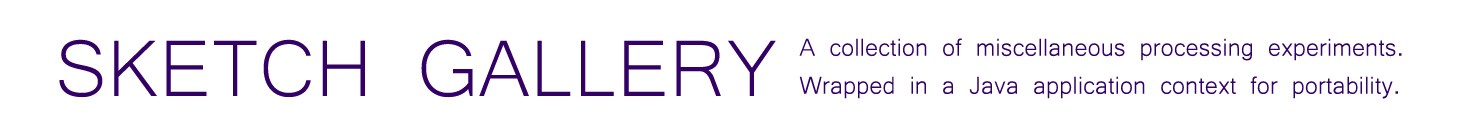
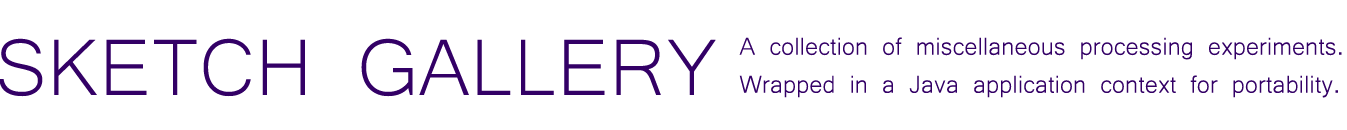
Cleanup Launcher

Changed region(s): [[0.0, 0.2769, 0.9978, 0.7385], [0.5301, 0.5846, 0.9978, 0.7385]]

diff --git a/src/Launcher.java b/src/Launcher.java
@@ -1,6 +1,6 @@
 import java.io.File;
-
 import javafx.application.Application;
+import javafx.application.Platform;
 import javafx.collections.FXCollections;
 import javafx.collections.ObservableList;
 import javafx.geometry.Insets;
@@ -8,13 +8,15 @@ import javafx.geometry.Pos;
 import javafx.scene.Scene;
 import javafx.scene.control.Button;
 import javafx.scene.control.ListView;
+import javafx.scene.control.ToolBar;
 import javafx.scene.image.Image;
 import javafx.scene.image.ImageView;
+import javafx.scene.layout.BorderPane;
 import javafx.scene.layout.GridPane;
-import javafx.scene.text.Font;
-import javafx.scene.text.FontWeight;
-import javafx.scene.text.Text;
+import javafx.scene.layout.HBox;
 import javafx.stage.Stage;
+import javafx.stage.StageStyle;
+import javax.swing.GroupLayout.Alignment;
 import processing.core.PApplet;
 
 /**
@@ -22,11 +24,13 @@ import processing.core.PApplet;
  */
 public class Launcher extends Application {
 
-    private final int WIDTH = 1280;
+    private final int WIDTH = 1020;
     private final int HEIGHT = 720;
-    private final boolean RESIZABLE = false;
+    private final boolean RESIZABLE = true;
     private final String TITLE = "Processing Sketches";
     private final String SKETCHES_SRC = "sketches.";
+    private double xOffset;
+    private double yOffset;
 
     /**
      * Constructor.
@@ -36,15 +40,47 @@ public class Launcher extends Application {
 
     @Override
     public void start(Stage primaryStage) throws Exception {
-        GridPane grid = new GridPane();
-        grid.setAlignment(Pos.CENTER);
-        grid.setHgap(10);
-        grid.setVgap(10);
-        grid.setPadding(new Insets(25, 25, 25, 25));
+        primaryStage.initStyle(StageStyle.UNDECORATED);
+        BorderPane borderPane = new BorderPane();
 
-        Text scenetitle = new Text("Welcome");
-        scenetitle.setFont(Font.font("Tahoma", FontWeight.NORMAL, 20));
-        grid.add(scenetitle, 0, 0, 2, 1);
+        ToolBar toolBar = new ToolBar();
+        toolBar.setOnMousePressed(event -> {
+            xOffset = primaryStage.getX() - event.getScreenX();
+            yOffset = primaryStage.getY() - event.getScreenY();
+        });
+
+        toolBar.setOnMouseDragged(event -> {
+            primaryStage.setX(event.getScreenX() + xOffset);
+            primaryStage.setY(event.getScreenY() + yOffset);
+        });
+
+        int height = 32;
+        toolBar.setPrefHeight(height);
+        toolBar.setMinHeight(height);
+        toolBar.setMaxHeight(height);
+        borderPane.setStyle("-fx-background: #FFFFFF;");
+        toolBar.setStyle("-fx-background: #FFFFFF;");
+        toolBar.getItems().add(new WindowButtons());
+        borderPane.setTop(toolBar);
+        GridPane grid = new GridPane();
+        borderPane.setBottom(grid);
+        borderPane.setAlignment(grid, Pos.CENTER);
+        grid.setAlignment(Pos.CENTER);
+        grid.setPadding(new Insets(25, 25, 25, 25));
+        grid.setStyle("-fx-background: #FFFFFF;");
+        Scene scene = new Scene(borderPane, WIDTH, HEIGHT);
+        primaryStage.setTitle(TITLE);
+        primaryStage.setScene(scene);
+        primaryStage.setResizable(RESIZABLE);
+        primaryStage.getIcons().add(new Image("file:icon.png"));
+
+        ImageView header = new ImageView();
+        header.setImage(new Image("file:header.png"));
+        header.setFitWidth(900);
+        header.setPreserveRatio(true);
+        header.setSmooth(true);
+        header.setCache(true);
+        grid.add(header, 0, 0, 4, 1);
 
         // Options List
         ListView<String> list = new ListView<String>();
@@ -52,7 +88,6 @@ public class Launcher extends Application {
         File folder = new File("src/sketches/");
         File[] listOfFiles = folder.listFiles();
         ObservableList<String> items = FXCollections.observableArrayList();
-
         String tmp;
         if (listOfFiles != null) {
             for (File file : listOfFiles) {
@@ -67,25 +102,41 @@ public class Launcher extends Application {
         grid.add(list, 0, 1, 2, 1);
 
         Button btn = new Button();
+        btn.setStyle(
+            "-fx-background-color:#330066;"
+            + "-fx-text-fill: white;"
+            + "-fx-border-style: none;"
+            + "-fx-font-size: 14px;"
+            + "-fx-: 14px;");
         btn.setText("Launch Sketch");
-        btn.setOnAction(event -> {
-            PApplet.main(SKETCHES_SRC + list.getSelectionModel().getSelectedItem(), new String[]{});
-        }
+        btn.setOnAction((javafx.event.ActionEvent event) ->
+            PApplet.main(SKETCHES_SRC + list.getSelectionModel().getSelectedItem(), new String[]{})
         );
         grid.add(btn, 0, 2, 2, 1);
 
-        Scene scene = new Scene(grid, WIDTH, HEIGHT);
-        primaryStage.setTitle(TITLE);
-        primaryStage.setScene(scene);
-        primaryStage.setResizable(RESIZABLE);
         primaryStage.show();
-        primaryStage.getIcons().add(new Image("file:icon.png"));
 
-        ImageView header = new ImageView();
-        header.setImage(new Image("header.png"));
+
     }
 
     public static void main(String[] args) {
         launch(args);
     }
+
+    class WindowButtons extends HBox {
+
+        public WindowButtons() {
+            Button closeBtn = new Button("Exit");
+            this.setAlignment(Pos.BOTTOM_RIGHT);
+            closeBtn.setStyle(
+                "-fx-background-color:#330066;"
+                    + "-fx-text-fill: white;"
+                    + "-fx-border-style: none;"
+                    + "-fx-font-size: 14px;"
+                    + "-fx-: 10px;");
+            closeBtn.setOnAction(actionEvent -> Platform.exit());
+            this.getChildren().add(closeBtn);
+        }
+    }
+
 }

diff --git a/src/sketches/BlankSlate.java b/src/sketches/BlankSlate.java
@@ -79,7 +79,7 @@ public class BlankSlate extends PApplet {
         BACKGROUND_COLOR = color(0xFF2d3138);
         DRAW_COLOR = color(0xFFFFFFFF);
         GRID_COLOR = color(0xFFf46842);
-        CANVAS_WIDTH = (float) width * (float) CANVAS_PERCENTAGE;
+        CANVAS_WIDTH = (float) width * CANVAS_PERCENTAGE;
         CANVAS_HEIGHT = height * CANVAS_PERCENTAGE;
         CANVAS_X = (width - CANVAS_WIDTH) / 2;
         CANVAS_Y = (height - CANVAS_HEIGHT) / 2;

diff --git a/src/sketches/Wheel.java b/src/sketches/Wheel.java
@@ -79,7 +79,7 @@ public class Wheel extends PApplet {
     BACKGROUND_COLOR = color(0xFF2d3138);
     DRAW_COLOR = color(0xFFFFFFFF);
     GRID_COLOR = color(0xFFf46842);
-    CANVAS_WIDTH = (float) width * (float) CANVAS_PERCENTAGE;
+    CANVAS_WIDTH = (float) width * CANVAS_PERCENTAGE;
     CANVAS_HEIGHT = height * CANVAS_PERCENTAGE;
     CANVAS_X = (width - CANVAS_WIDTH) / 2;
     CANVAS_Y = (height - CANVAS_HEIGHT) / 2;
